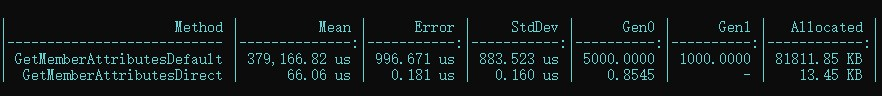
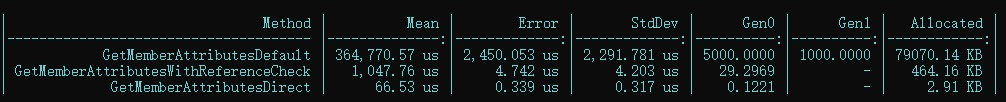
doc: bechmark src

Changed region(s): [[0.0, 0.1562, 1.0, 0.9062], [0.8571, 0.8438, 0.8878, 0.875]]

diff --git a/Documentation/benchmark.md b/Documentation/benchmark.md
@@ -1,0 +1,55 @@
+# 基准测试源码
+
+```csharp
+using BenchmarkDotNet.Attributes;
+using BenchmarkDotNet.Running;
+using com.bbbirder.DirectAttribute;
+using System.Reflection;
+
+BenchmarkRunner.Run<BenchmarkProgram>();
+
+[MemoryDiagnoser]
+public class BenchmarkProgram
+{
+    readonly Type attrType = typeof(DirectRetrieveAttribute);
+    readonly string attrAssemblyName = typeof(DirectRetrieveAttribute).Assembly.GetName().ToString();
+    static BindingFlags bindingFlags = 0
+        | BindingFlags.Instance
+        | BindingFlags.Public
+        | BindingFlags.NonPublic
+        | BindingFlags.Static
+        | BindingFlags.DeclaredOnly
+        ;
+    [Benchmark]
+    public void GetMemberAttributesDefault()
+    {
+        var types = AppDomain.CurrentDomain.GetAssemblies()
+            .SelectMany(a => a.GetTypes());
+        types.SelectMany(t => t.GetCustomAttributes(attrType))
+            .ToArray();
+        types.SelectMany(a => a.GetMembers(bindingFlags))
+            .SelectMany(m => m.GetCustomAttributes(attrType))
+            .ToArray();
+    }
+    [Benchmark]
+    public void GetMemberAttributesWithReferenceCheck()
+    {
+        var types = AppDomain.CurrentDomain.GetAssemblies()
+            .Where(a => a.GetName().ToString() == attrAssemblyName
+                || a.GetReferencedAssemblies().Any(a => a.ToString() == attrAssemblyName))
+            .SelectMany(a => a.GetTypes());
+        types.SelectMany(t => t.GetCustomAttributes(attrType))
+            .ToArray();
+        types.SelectMany(a => a.GetMembers(bindingFlags))
+            .SelectMany(m => m.GetCustomAttributes(attrType))
+            .ToArray();
+    }
+
+    [Benchmark]
+    public void GetMemberAttributesDirect()
+    {
+        AttributeRetriever.GetAll<DirectRetrieveAttribute>();
+    }
+}
+
+```

diff --git a/README.md b/README.md
@@ -49,7 +49,13 @@ foreach(var attr in attributes){
 
 ### 基准测试结果
 ![benchmark](Documentation/benchmark.jpg)
-> `GetMemberAttributesDefault`使用传统方式检索所有Attribute，`GetMemberAttributesDirect`使用`DirectAttribute`提供的方式检索所有Attribute。
+* `GetMemberAttributesDefault`使用传统方式检索所有Attribute，
+* `GetMemberAttributesWithReferenceCheck`使用传统方式检索，但是先检查Assembly之间的依赖关系。
+* `GetMemberAttributesDirect`使用`DirectAttribute`提供的方式检索所有Attribute。
+
+在VisualStudio和Unity测试总结：`DirectAttribute`方式在运行时间上，比传统方式优化了95%左右；在内存消耗上比传统方式优化了99%以上。并且随着用户代码的体积增长，`DirectAttribute`方式的开销几乎不变。
+
+[基准测试源码](Documentation/benchmark.md)
 ## 安装
 Package Manager通过git url安装： https://github.com/labbbirder/DirectRetrieveAttribute
 
